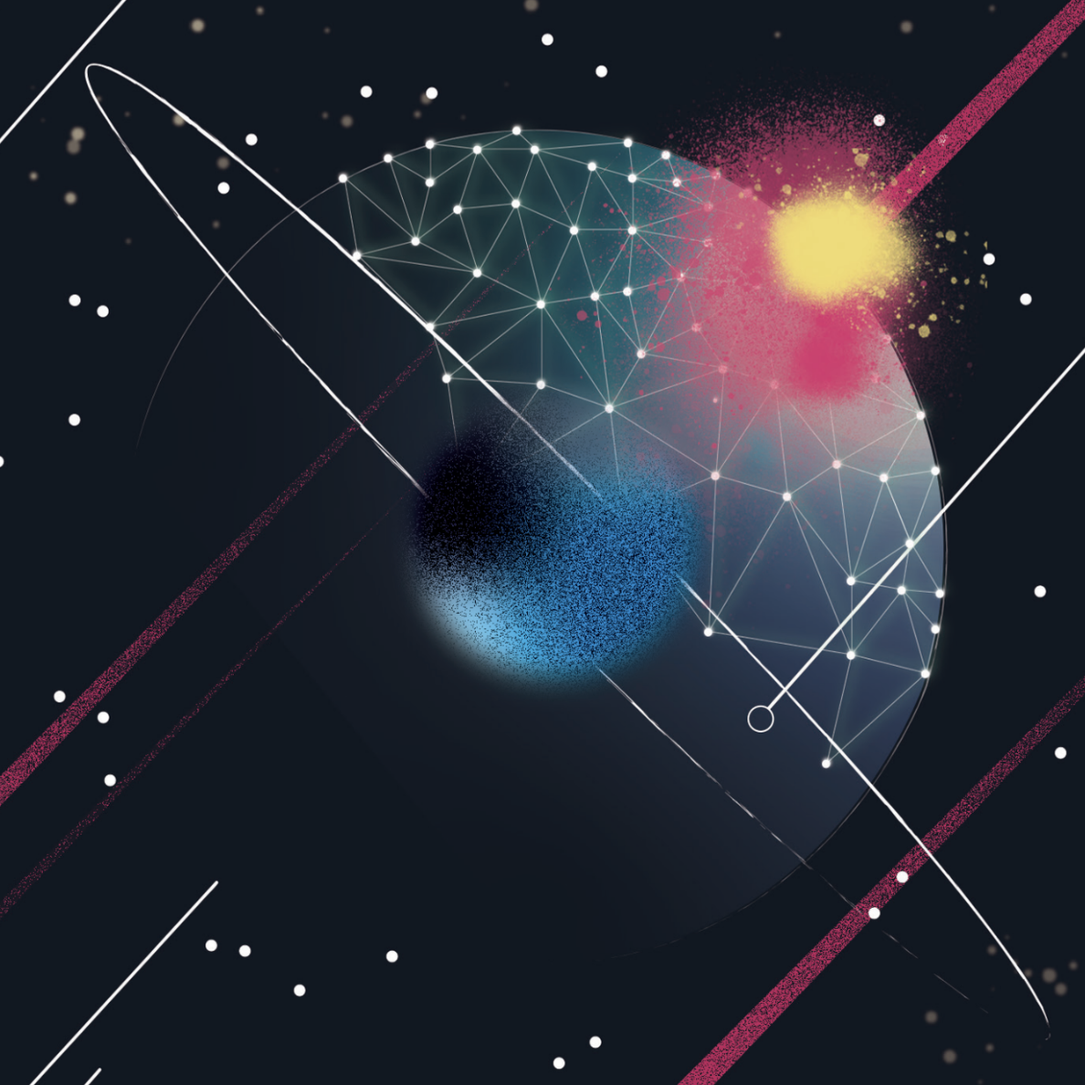
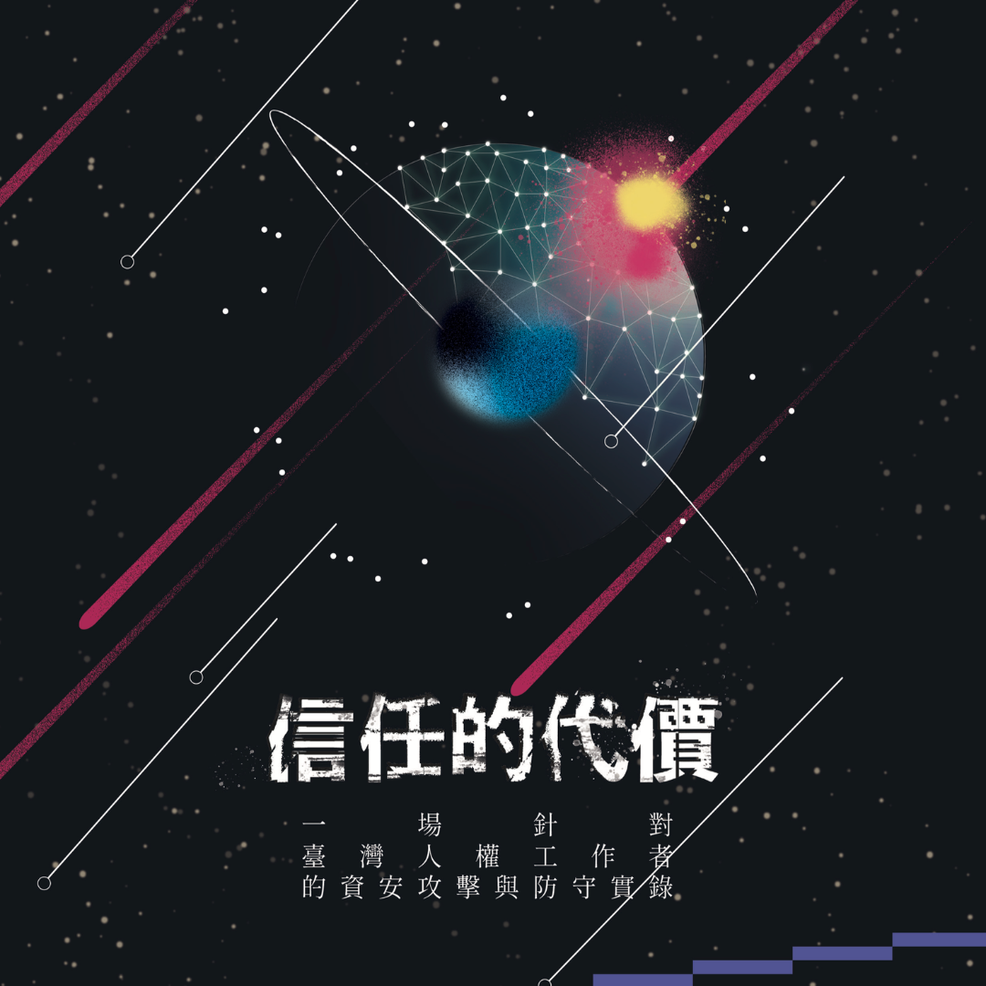
defendhrd: follow-up for PR #129 (SMP copy, links, layout, responsive)
Refresh project metadata and sidebar links for the Security Makeover
Program framing, fix child-project URL parsing under /p/…/ trailing
slashes, and tune project-page CSS for defendhrd download covers plus
lighter body copy weight. Update zh/en defendhrd pages with revised
narrative, download cards (including mapping + EN covers), and scoped
mobile layout to match the PR #129 research outputs section.

diff --git a/en/p/defendhrd/index.html b/en/p/defendhrd/index.html
@@ -1,8 +1,8 @@
 ---
 layout: p
 
-og_title: Defending and Documenting Digital Threats for HRDs in Taiwan
-og_description: Human rights defenders (HRDs) based in Taiwan have become the targets of digital attacks from malicious actors. This project aims to identify and document the scope and the sources of the digital threats, in order to develop a capacity-building toolkits  to assist HRDs effectively mitigate the risks and support their work.
+og_title: Digital Security Support for CSOs and HRDs in Taiwan
+og_description: The Open Culture Foundation’s Security Makeover Program for CSOs and HRDs accompanied six Taiwan-based organizations for one year to strengthen digital security practices and develop practical policies or guidelines. The program produced three public reports and one learning resource, and helped stop a cyberattack targeting civil society before it caused harm.
 og_image: /p/defendhrd/defendhrd logo_en.png
 
 header_image_opacity: 0.75
@@ -24,70 +24,23 @@ progress:
 cpid: 
 show_child_projects: yes
 ---
-<h2 class="ui dividing header">Project Background</h2>
-<p>The flourishing civil society and open environment in Taiwan have established it as a central hub where Human Rights Defenders (HRDs) from around the world convene. However, the potential risks that come along with the HRDs’ advocacy work are rarely discussed and remain undocumented. In recent years, activists in Taiwan have faced increasing targeted attacks by malicious actors, especially the cross-border influences of authoritarian regimes. Our network and existing projects providing digital security services to local HRDs have revealed suspicious signs on the devices of human rights activists. Additionally, some confirmed digital attacks have resulted in damages, including data loss or breaches of accounts.
-</p>
-<p>Despite the severity of the situation, there are only limited resources available to enhance organizational digital security infrastructure. Human rights organizations often operate with minimal manpower and rely heavily on donations or public funding for their operations. The lack of personnel with digital security expertise and the financial constraints hindering the investment in secure hardware leave HRDs vulnerable to potential threats and jeopardizes their work. In Taiwan, there are voluntary groups committed to providing digital security training to human rights civil society organizations. They offer training sessions to equip the HRDs with the basic knowledge and strategies for safeguarding against digital attacks. However, our experience shows that while one-time training programs provide fundamental knowledge of digital attacks, there’s a need for a long-term and customized solution, as each organization operates on a different scale and encounters different challenges.
-</p>
-<p>There are two primary goals of this project:</p>
-<ol>
-	<li><b>Digital Security Mapping for HRDs in Taiwan</b>: Surveys and depth interviews will be conducted to investigate the types and  origins of the digital attacks, as well as the damages experienced by HRDs. This research aims to understand the digital infrastructures and address the digital security needs of HRDs.</li>
-	<li><b>Digital Security Toolkit for HRDs</b>: Informed by the research findings, we will craft a comprehensive digital security toolkit tailored to meet the specific requirements of HRDs. The toolkit will be made publicly available for widespread use.</li>
-</ol>
+<h2 class="ui dividing header">About the Project</h2>
+<p>The Open Culture Foundation (OCF) launched the <strong>Security Makeover Program for CSOs and HRDs</strong> to provide long-term digital security support for Taiwan-based civil society organizations and human rights defenders. Over one year, OCF worked with six high-risk organizations to review their tools, accounts, data, and workflows, and to develop practical security policies or guidelines that teams could sustain beyond the project period.</p>
+<p>The program responds to increasingly complex digital threats against civil society. For CSOs and HRDs, digital security is essential to protecting sensitive information, maintaining trust with partners and communities, and keeping their work running safely. Yet many groups face limited staff capacity, time, and technical resources, making it difficult to turn security awareness into daily practice.</p>
+<p>Through this program, OCF supported six organizations in developing security policies or guidelines at different levels of maturity. The project produced three public reports and one learning resource, documenting key findings, the accompaniment model, and practical lessons for other civil society groups.</p>
+<p>OCF also helped intercept a cyberattack targeting civil society, in which attackers impersonated a participating human rights organization to send a convincing phishing email to its partners. The case was referred to Civil Society Cyber Shield (CSCS) for analysis, and the attack was stopped before causing infection. The experience showed that effective protection requires long-term trust, timely reporting, and collaboration between civil society groups and technical communities.</p>
 
-<h2 class="ui dividing header">Digital Security Mapping for HRDs in Taiwan</h2>
-<p>This project is developed with the aim of bridging the gap between the existing services and actual needs of the HRDs in Taiwan. We employed a mixed-methods approach in order to identify the scope of existing digital security risks and explore a holistic approach to mitigate these risks. The project collected questionnaires from 35 HRDs and conducted in-depth interviews with 3 high-risk HRDs who had previous experience with targeted digital attacks. Here are some key findings: </p>
+<h2 class="ui dividing header">Reports &amp; Resources</h2>
+<p>The project produced three public reports and one learning resource. Together, these outputs document digital threat trends, the <strong>Security Makeover Program</strong> experience, practical learning materials, and a real-world cyberattack case, offering useful insights for NGOs and digital security practitioners working to strengthen civil society’s digital resilience.</p>
 
-<p>Who are HRDs in Taiwan?</p>
-<ul>
-	<li>Most formal organizations have staff sizes under 10 people and consist of a mix of full-time, part-time, interns, or volunteers.</li>
-	<li>Interviewed HRDs used multiple tools with similar functions situationally for their operations, which we refer to as a ‘patchwork’ pattern.</li>
-</ul>
+<h3 class="ui header">Digital Security Mapping for HRDs in Taiwan: Preliminary Results (2024)</h3>
+<p>Based on 35 survey responses and 3 in-depth interviews, this report maps <strong>key digital threats</strong> facing Taiwan-based CSOs and HRDs, including phishing, online harassment, account compromise, and infrastructure attacks. It highlights why resource-limited CSOs need long-term digital security support.</p>
 
-<p>What types of digital attacks occurred?</p>
-<ul>
-	<li>Foreign authoritarian regimes are considered the primary potential attackers.</li>
-	<li>Social media harassment and phishing are the most common types of attacks.</li>
-	<li>HRDs expressed greater concern about attacks targeting internal digital infrastructure and data.</li>
-</ul>
+<h3 class="ui header">Safeguarding Advocacy: A <strong>Security Makeover Program</strong> (SMP) for CSOs and HRDs (2026)</h3>
+<p>This report documents OCF’s one-year <strong>Security Makeover Program</strong> with 6 high-risk CSOs and HRD groups. It shares how long-term accompaniment helped organizations review daily digital practices and develop practical security policies or guidelines.</p>
 
-<p>Why did digital threats concern the HRDs?</p>
-<ul>
-	<li>Most HRDs have little confidence in their preparedness for digital attacks.</li>
-	<li>Patchworked digital infrastructure creates additional challenges for effective monitoring and maintenance.</li>
-</ul>
-
-<p>What is in need?</p>
-<ul>
-	<li>There is high willingness to participate in externally supported capacity building programs; internal constraints including lack of  human resources, skills, and funds are still common obstacles.</li>
-	<li>HRDs are seeking sustainable and long-term solutions that will equip them with knowledge, problem-solving skills, and a proactive learning mentality.</li>
-</ul>
-
-<p>If you want to learn more about the scope of digital attacks and the HRDs’ experience, please refer to the full report.</p>
-  <div class="item">
-    <div class="content">
-      <i class="hand point right outline icon"></i>
-      <a href="https://drive.google.com/file/d/1VV12Rp7IKkWexNTKQRuWIA4Zfd8ztN9X/view?usp=sharing">Full Report (English)</a>
-    </div>
-  </div>
-  <div>
-    <div class="item">
-    <div class="content">
-      <i class="hand point right outline icon"></i>
-      <a href="https://drive.google.com/file/d/1SbsZ_4WekPX7sS1jfVKhaFZGxCjtUgPX/view?usp=drive_link">Summary (English)</a>
-    </div>
-    </div>
-  </div>
-
-<h2 class="ui dividing header">Digital Security Toolkit for HRDs</h2>
-<p>Based on our findings in the Digital Security Mapping for HRDs in Taiwan, we will develop a digital security toolkit for HRDs in Taiwan. We anticipate that this digital security toolkit will bring sustainable impacts and significantly enhance the digital resilience of HRDs.</p>
-
-<h2 class="ui dividing header">Research Outputs &amp; Resources</h2>
-<p>Building on the findings of this project, we have produced two follow-up outputs and shared them back with the human rights community.</p>
-
-<p><b><i>The Cost of Trust: Lessons from a Cyberattack on Taiwan-Based Human Rights Defenders</i></b> documents a real-world targeted cyberattack against HRDs in Taiwan, fully reconstructing the attacker's intrusion methods, how the organization first detected anomalies, the timeline of incident response and recovery in collaboration with the security team, and the lessons learned from post-incident review. While the earlier <i>Digital Security Mapping for HRDs in Taiwan</i> confirmed that HRDs broadly face potential threats from foreign authoritarian regimes, this case study makes those abstract threat patterns concrete — showing how a real organization discovered the attack, coordinated its response, and what costs it paid in terms of trust and resources. We hope this account will help more HRDs and supporting institutions see the full picture of an incident and develop preventive workflows and mental preparation accordingly.</p>
-
-<p><b><i>Safeguarding Advocacy: A Security Makeover Program (SMP) for CSOs and HRDs</i></b> is the final report of the Security Makeover Program (SMP) that grew out of this project. SMP was designed to move beyond the limitations of one-time training — many civil society groups, after attending workshops, still struggle to put new knowledge into practice due to differences in organizational size, lack of technical expertise, and limited budgets. SMP takes a long-term accompaniment approach: security practitioners work directly with each organization to take stock of its digital infrastructure, clarify its assets and risks, design a tailored improvement plan, and provide ongoing consultation and adjustments throughout implementation. The report presents SMP's service design and operating model, lived experiences from participating organizations, common challenges observed during the program, and recommendations for scaling security accompaniment work in the future — intended as a reference for organizations and funders that share our concern for the cybersecurity of human rights defenders.</p>
+<h3 class="ui header">The Cost of Trust: Lessons from a Cyberattack on Taiwan-Based Human Rights Defenders (2026)</h3>
+<p>This report examines <strong>the MAK case</strong>, a real cyberattack in which attackers impersonated a Taiwanese human rights organization to target its partners. It shows how civil society trust networks can be exploited—and how timely reporting, OCF coordination, and CSCS technical support helped stop the attack before infection.</p>
 
 <style>
   .defendhrd-results .download-section {
@@ -115,7 +68,13 @@ show_child_projects: yes
   }
   .defendhrd-results a.btn-download:hover { color: #ffffff !important; opacity: 0.9; }
   @media (max-width: 768px) {
-    .defendhrd-results .download-card { width: 100%; max-width: 300px; margin: 0 auto; }
+    .defendhrd-results .download-card {
+      width: 100%;
+      max-width: 300px;
+      margin: 0 auto;
+      box-sizing: border-box;
+    }
+    .defendhrd-results .download-section { gap: 2rem; }
   }
 </style>
 
@@ -123,19 +82,27 @@ show_child_projects: yes
   <div class="download-section">
 
     <div class="download-card">
-      <img src="/p/defendhrd/cost-of-trust-cover.png" alt="The Cost of Trust cover" class="album-art">
-      <h3>The Cost of Trust</h3>
-      <p class="card-desc">A case study documenting a cyberattack against Taiwan-based human rights defenders — attack patterns, defensive response, and lessons learned.</p>
-      <a href="https://drive.google.com/file/d/1VwZwVXpOjTBZibVCTbIF1wUdPhQU_wJz/view?usp=drive_link" class="btn-download">中文版</a>
-      <a href="https://drive.google.com/file/d/1Q3Z2nLJ4dkQpmSqXQcctl4IW3cUhdDkF/view?usp=drive_link" class="btn-download">English</a>
+      <img src="/p/defendhrd/Digital%20Security%20Mapping%20for%20HRDs%20in%20Taiwan_en.png" alt="Digital Security Mapping for HRDs in Taiwan" class="album-art">
+      <h3>Digital Security Mapping for HRDs in Taiwan</h3>
+      <p class="card-desc">2024 preliminary research: full report in English, plus a Traditional Chinese summary synthesizing findings from 35 questionnaires and three in-depth interviews.</p>
+      <a href="https://drive.google.com/file/d/1sxAFmSiJL6DzdO3ezq_hJSBROuGXNLAA/view" class="btn-download">Summary (zh-TW)</a>
+      <a href="https://drive.google.com/file/d/1VV12Rp7IKkWexNTKQRuWIA4Zfd8ztN9X/view?usp=sharing" class="btn-download">Full report (English)</a>
     </div>
 
     <div class="download-card">
-      <img src="/p/defendhrd/safeguarding-advocacy-cover.png" alt="Safeguarding Advocacy cover" class="album-art">
-      <h3>Safeguarding Advocacy (Final Report)</h3>
-      <p class="card-desc">The project's final report, summarizing the Security Makeover Program (SMP)'s service model, implementation experience, and recommendations for CSOs and HRDs.</p>
-      <a href="https://drive.google.com/file/d/1wgYdObezFzlI6OJLozzqQF5Vt11B7gCd/view?usp=drive_link" class="btn-download">中文版</a>
+      <img src="/p/defendhrd/safeguarding-advocacy-cover-en.png" alt="Safeguarding Advocacy cover" class="album-art">
+      <h3>Safeguarding Advocacy</h3>
+      <p class="card-desc">The project's final report, summarizing the <strong>Security Makeover Program</strong> (SMP)'s service model, implementation experience, and recommendations for CSOs and HRDs.</p>
+      <a href="https://drive.google.com/file/d/1wgYdObezFzlI6OJLozzqQF5Vt11B7gCd/view?usp=drive_link" class="btn-download">Traditional Chinese (zh-TW)</a>
       <a href="https://drive.google.com/file/d/1ln6__KiGZgf9QSkYhwKo8gm4L9d9tExo/view?usp=drive_link" class="btn-download">English</a>
+    </div>
+
+    <div class="download-card">
+      <img src="/p/defendhrd/cost-of-trust-cover-en.png" alt="The Cost of Trust cover" class="album-art">
+      <h3>The Cost of Trust</h3>
+      <p class="card-desc">A case study documenting a cyberattack against Taiwan-based human rights defenders — attack patterns, defensive response, and lessons learned.</p>
+      <a href="https://drive.google.com/file/d/1VwZwVXpOjTBZibVCTbIF1wUdPhQU_wJz/view?usp=drive_link" class="btn-download">Traditional Chinese (zh-TW)</a>
+      <a href="https://drive.google.com/file/d/1Q3Z2nLJ4dkQpmSqXQcctl4IW3cUhdDkF/view?usp=drive_link" class="btn-download">English</a>
     </div>
 
     <a href="https://ssd.ocf.tw/" class="download-card">

diff --git a/p/defendhrd/index.html b/p/defendhrd/index.html
@@ -1,8 +1,8 @@
 ---
 layout: p
 
-og_title: 在台人權工作者的數位安全樣態與培力
-og_description: 在台人權與民主倡議工作者（Human Rights Defenders，HRDs）因其倡議工作，面對著來自境內或境外的惡意數位威脅攻擊。本項專案旨在記錄在台人權工作者所遭遇到的數位威脅的來源及規模，並且發展一個可分享的整體性資安培力工具及訓練計劃，讓人權工作者得以透過研究成果和工具來提升他們的數位安全。
+og_title: 公民團體與人權工作者資安陪伴計畫
+og_description: 透過一年期長期陪伴，協助 6 個高風險組織檢視數位工具、帳號、資料與工作流程，建立可落實的資安政策或守則。計畫產出 3 份成果報告與 1 份網站教材，並在陪伴過程中成功攔截一起針對公民社會的資安攻擊事件。
 og_image: /p/defendhrd/defendhrd logo_tw.png
 
 header_image_opacity: 0.75
@@ -24,65 +24,18 @@ progress:
 cpid: 
 show_child_projects: yes
 ---
-<h2 class="ui dividing header">人權工作者面臨惡意數位威脅，僅有有限的應對資源</h2>
-<p>活躍的公民社會及開放的環境，促使台灣成為全球人權及民主倡議工作者（Human Rights Defenders，HRDs）的聚集中心。然而，人權工作者在倡議工作中所面臨的潛在風險卻鮮少獲得討論，也缺少詳實的研究紀錄。近年來，台灣的倡議工作者面臨越來越多惡意威脅及針對性數位攻擊，特別是來自跨境威權政府的影響。根據我們在台灣的公民團體網絡，以及現有的數位安全防禦計畫成果，在台人權工作者所使用的裝置中經常可見許多可疑的攻擊跡象。除此之外，也有一些經過確認的數位攻擊，已經導致人權組織蒙受實際的損害，包含資料及帳號受損。</p>
-<p>儘管已有數位攻擊造成實際損害，但是人權工作者卻只有相當有限的資源，可用於加強組織層面的數位安全基礎設施。人權及民主倡議團體經常面臨人力資源不足，也高度仰賴捐款或是政府補助，作為維持組織營運的主要財務來源。缺乏具備數位安全專業知識的人力資源、有限的數位安全硬體預算，都使得人權工作者在面對數位威脅時變得更加脆弱，使得倡議工作的數位攻擊風險加劇。雖然目前在台灣，已有志願團體致力於提供人權工作者數位安全基礎知識，以及數位攻擊防範策略培訓；但是我們的經驗顯示，雖然一次性的培訓計畫有助於人權工作者學習基礎知識，但是由於每個組織的規模各異，他們所面臨的數位威脅挑戰也有所不同，人權及民主倡議工作者迫切需要一個長期性、客製化的解決方案。</p>
-<p>本項專案有兩大目標成果：</p>
-<ol>
-	<li><b>「台灣人權民主倡議團體數位威脅概況」報告</b>：我們將透過問卷及深度訪談，探討在台人權工作者的數位安全樣態，包含曾經遭遇的數位攻擊類型、來源以及造成的損害，確認在台人權工作者的數位基礎設施狀態及資安防護需求。</li>
-	<li><b>數位安全培力工具包</b>：在上述研究成果的基礎上，發展一套合乎在台人權工作者需求的數位安全培力工具包，並公開分享給大眾使用。</li>
-</ol>
+<h2 class="ui dividing header">關於本計畫</h2>
+<p>開放文化基金會（OCF）推動「公民團體與人權工作者<strong>資安陪伴計畫</strong>」，以長期陪伴取代一次性的資安訓練，協助公民團體與人權工作者理解自身面對的數位風險，檢視日常使用的工具、帳號、資料與工作流程，並逐步建立可落實、可延續的安全做法。本計畫為期一年，陪伴 6 個在臺灣的高風險公民團體與人權工作者組織，從日常工作情境出發，協助組織把資安從少數人的臨時處理，轉化為整個團隊都能理解與執行的工作基礎。</p>
+<p>這項計畫的推動，是因為公民團體與人權工作者正面對越來越複雜的數位威脅。對許多倡議組織而言，數位安全不只是技術問題，也關係到敏感資料能否被保護、合作夥伴能否安心協作、倡議工作能否穩定持續。許多組織雖然知道資安重要，卻受限於人力、時間與技術資源，只能用有限條件維持日常運作。當釣魚信件、帳號風險、網站攻擊或資料外洩發生時，這些威脅不只影響組織本身，也可能波及服務對象、支持者與整個公民社會的信任網絡。</p>
+<p>透過本計畫，OCF 協助 6 個參與組織完成不同程度的資安政策或資安守則，並產出 3 份成果報告及 1 份網站教材，將研究發現、陪伴方法與實務經驗公開整理，供更多公民團體參考。在陪伴過程中，OCF 也協助攔截一起針對公民社會的資安攻擊事件：攻擊者冒用一個參與計畫的人權組織名義，寄出高度擬真的釣魚郵件，企圖利用該組織長期累積的信任攻擊其合作夥伴。事件發生後，該組織通報 OCF，OCF 隨即串連資安志願社群 Civil Society Cyber Shield（CSCS）進行分析，最終在造成實質感染前成功攔截攻擊。這項經驗也讓 OCF 更確信，守護公民社會的數位安全，需要長期信任、即時通報與跨社群合作，才能讓重要的倡議聲音在威脅中持續被聽見。</p>
 
-<h2 class="ui dividing header">台灣人權與民主倡議團體數位威脅概況</h2>
-<p>為了弭平現有數位安全服務與實際需求之間的落差，本計畫採取混合研究方法，嘗試勾勒出在台人權工作者的數位安全樣態，並尋求一套能夠降低數位威脅風險的整體性方案。我們從 35 個人權組織、社群和個人行動者蒐集問卷，並向 3 名曾經遭受「具針對性數位攻擊」的高風險人權工作者進行深入訪談。以下為我們的主要研究發現：</p>
+<h2 class="ui dividing header">研究成果與資源</h2>
 
-<p>在台人權工作者有哪些人？</p>
 <ul>
-	<li>本研究所調查的人權工作者以 10 人以下的正式註冊組織為主要型態，並由全職、兼職、實習生或志工等多種雇用型態組成。</li>
-	<li>受訪組織的數位基礎設施建置與使用缺乏完整規劃，並且視情況結合多種功能類似的工具以維持運作，我們將之稱為「拼裝」模式。</li>
+  <li>《台灣人權民主倡議團體數位威脅概況》（2024）<br>本報告透過 35 份問卷與 3 份深度訪談，了解在臺灣的人權與民主倡議團體面對哪些數位威脅。研究發現，許多組織規模小、人力有限，卻經常面對社群媒體騷擾、釣魚攻擊、帳號或資料受損等風險。報告也指出，許多團體的數位工具與工作流程多半是因應需求臨時拼湊而成，缺乏完整規劃，因此更難面對持續升高的攻擊風險。</li>
+  <li>《守護倡議之聲：公民團體與人權工作者<strong>資安陪伴計畫</strong>成果報告》（2026）<br>本報告整理 OCF 一年期「<strong>資安陪伴計畫</strong>」的執行過程與成果。計畫陪伴 6 個高風險公民團體與人權工作者組織，協助他們檢視日常使用的工具、帳號、資料與工作流程，並建立可執行的資安政策或守則。報告也整理陪伴過程中的經驗，包括如何建立信任、如何讓資安成為組織日常，以及如何在有限資源下逐步提升防護能力。</li>
+  <li>《信任的代價：一場針對臺灣人權工作者的資安攻擊與防守實錄》（2026）<br>本報告記錄一場<strong>針對臺灣人權工作者與其合作網絡的資安攻擊</strong>。攻擊者冒用人權組織 MAK 的名義，寄出高度擬真的釣魚郵件，企圖利用該組織累積的信任，進一步攻擊合作夥伴。事件最後在感染前被成功攔截，關鍵在於外部夥伴察覺異常、MAK 即時通報 OCF，並由 CSCS 資安社群協助分析。報告提醒，公民社會需要更穩定的通報與防禦機制。</li>
 </ul>
-<p>哪些數位攻擊發生了？</p>
-<ul>
-	<li>大部分人權工作者認為外國威權政府是主要的潛在攻擊者。</li>
-	<li>社交媒體騷擾和釣魚是人權工作者最常遭遇的攻擊類型。</li>
-	<li>然而，比起上述攻擊，受訪者對於針對內部數位基礎設施和資料侵害的攻擊表達更多憂慮。</li>
-</ul>
-<p>為何人權工作者會對數位威脅感到擔憂？</p>
-<ul>
-	<li>大部分人權工作者認為自己面對數位攻擊的準備不夠充分。</li>
-	<li>「拼裝」數位基礎設施，造成管理及維護上的挑戰。</li>
-</ul>
-<p>人權工作者最需要什麼？</p>
-<ul>
-	<li>大部分人權工作者對於外部支持的培力計畫表達高度參與意願，但是組織內部限制包含人力資源不足、技能不足和資金不足，仍是難以解決的現況。</li>
-	<li>他們期望看到更加永續、長期的解決方案，讓他們具備知識、解決問題的能力和積極的學習心態。</li>
-</ul>
-
-<p>如果想瞭解更多在台人權工作者的數位攻擊經驗，請參閱「台灣人權與民主倡議團體數位威脅概況」。</p>
-  <div class="item">
-    <div class="content">
-      <i class="hand point right outline icon"></i>
-      <a href="https://drive.google.com/file/d/1VV12Rp7IKkWexNTKQRuWIA4Zfd8ztN9X/view?usp=sharing">報告全文 (English)</a>
-    </div>
-  </div>
-  <div>
-    <div class="item">
-    <div class="content">
-      <i class="hand point right outline icon"></i>
-      <a href="https://drive.google.com/file/d/1sxAFmSiJL6DzdO3ezq_hJSBROuGXNLAA/view?usp=sharing">報告摘要 (中文)</a>
-    </div>
-    </div>
-  </div>
-
-<h2 class="ui dividing header">給人權工作者的數位安全培力工具包</h2>
-<p>根據台灣人權與民主倡議團體數位威脅概況報告成果，我們將為人權工作者設計一個數位安全培力工具包，期望帶來具有永續性的影響，並強化人權工作者的數位韌性。</p>
-
-<h2 class="ui dividing header">研究成果與相關資源</h2>
-<p>在本計畫的研究發現之上，我們進一步累積了兩份延伸成果，並將成果回饋給人權工作者社群。</p>
-
-<p><b>《信任的代價：一場針對臺灣人權工作者的資安攻擊與防守實錄》</b>記錄了臺灣人權工作者實際遭遇的針對性資安攻擊事件，完整還原攻擊者的入侵手法、組織端發現異常的過程、與資安團隊協作應變與復原的時間軸，以及事後檢討所獲得的經驗教訓。在「台灣人權與民主倡議團體數位威脅概況」研究中，我們確認了在台人權工作者普遍面臨來自境外威權政府的潛在威脅；本份個案實錄則進一步將抽象的威脅樣態具體化，呈現一個真實組織如何發現攻擊、如何協調應對、又付出了哪些信任與資源上的代價。我們希望透過這份實錄，讓更多人權工作者及支持單位看見攻擊事件的全貌，並從中建立預防性的工作流程與心理準備。</p>
-
-<p><b>《守護倡議之聲：公民團體與人權工作者資安陪伴計畫成果報告》</b>則是本計畫所衍生的「資安陪伴計畫」（Security Makeover Program，SMP）的結案報告。SMP 嘗試突破傳統「一次性培訓」的限制——許多公民團體在參加完工作坊後，仍然面臨組織規模不同、技術專業不足、預算有限等實際落地的挑戰。SMP 改以陪伴式的長期介入，由具備資安專業的夥伴直接進入組織，協助盤點數位基礎設施、釐清資產與風險、制定客製化的改造計畫，並在實作過程中持續提供諮詢與調整建議。本份報告完整呈現 SMP 的服務設計與運作模式、實際參與組織的個案經驗、計畫推動中所觀察到的常見挑戰，以及對未來規模化推動資安陪伴工作的建議，期待能作為其他關注人權工作者資安議題的組織與資助者的參考。</p>
 
 <style>
   .defendhrd-results .download-section {
@@ -110,7 +63,13 @@ show_child_projects: yes
   }
   .defendhrd-results a.btn-download:hover { color: #ffffff !important; opacity: 0.9; }
   @media (max-width: 768px) {
-    .defendhrd-results .download-card { width: 100%; max-width: 300px; margin: 0 auto; }
+    .defendhrd-results .download-card {
+      width: 100%;
+      max-width: 300px;
+      margin: 0 auto;
+      box-sizing: border-box;
+    }
+    .defendhrd-results .download-section { gap: 2rem; }
   }
 </style>
 
@@ -118,19 +77,27 @@ show_child_projects: yes
   <div class="download-section">
 
     <div class="download-card">
-      <img src="/p/defendhrd/cost-of-trust-cover.png" alt="信任的代價封面" class="album-art">
-      <h3>信任的代價</h3>
-      <p class="card-desc">一份針對臺灣人權工作者實際遭遇資安攻擊事件的個案研究實錄，記錄攻擊樣態、防守過程與經驗教訓。</p>
-      <a href="https://drive.google.com/file/d/1VwZwVXpOjTBZibVCTbIF1wUdPhQU_wJz/view?usp=drive_link" class="btn-download">中文版</a>
-      <a href="https://drive.google.com/file/d/1Q3Z2nLJ4dkQpmSqXQcctl4IW3cUhdDkF/view?usp=drive_link" class="btn-download">English</a>
+      <img src="/p/defendhrd/Digital%20Security%20Mapping%20for%20HRDs%20in%20Taiwan.png" alt="台灣人權與民主倡議團體數位威脅概況" class="album-art">
+      <h3>台灣人權與民主倡議團體數位威脅概況</h3>
+      <p class="card-desc">2024 年研究報告摘要（中文版），整理 35 份問卷與 3 場深度訪談中，在臺人權與民主倡議團體面臨的數位威脅樣態與資安需求。</p>
+      <a href="https://drive.google.com/file/d/1sxAFmSiJL6DzdO3ezq_hJSBROuGXNLAA/view" class="btn-download">中文版</a>
+      <a href="https://drive.google.com/file/d/1VV12Rp7IKkWexNTKQRuWIA4Zfd8ztN9X/view?usp=sharing" class="btn-download">英文版</a>
     </div>
 
     <div class="download-card">
       <img src="/p/defendhrd/safeguarding-advocacy-cover.png" alt="守護倡議之聲封面" class="album-art">
-      <h3>守護倡議之聲（結案報告）</h3>
-      <p class="card-desc">本專案結案報告，整理「資安陪伴計畫」(SMP) 對公民團體與人權工作者的服務模式、實作經驗與建議。</p>
+      <h3>守護倡議之聲</h3>
+      <p class="card-desc">本專案結案報告，整理「<strong>資安陪伴計畫</strong>」(SMP) 對公民團體與人權工作者的服務模式、實作經驗與建議。</p>
       <a href="https://drive.google.com/file/d/1wgYdObezFzlI6OJLozzqQF5Vt11B7gCd/view?usp=drive_link" class="btn-download">中文版</a>
-      <a href="https://drive.google.com/file/d/1ln6__KiGZgf9QSkYhwKo8gm4L9d9tExo/view?usp=drive_link" class="btn-download">English</a>
+      <a href="https://drive.google.com/file/d/1ln6__KiGZgf9QSkYhwKo8gm4L9d9tExo/view?usp=drive_link" class="btn-download">英文版</a>
+    </div>
+
+    <div class="download-card">
+      <img src="/p/defendhrd/cost-of-trust-cover.png" alt="信任的代價封面" class="album-art">
+      <h3>信任的代價</h3>
+      <p class="card-desc">一份針對臺灣人權工作者實際遭遇資安攻擊事件的個案研究實錄，記錄攻擊樣態、防守過程與經驗教訓。</p>
+      <a href="https://drive.google.com/file/d/1VwZwVXpOjTBZibVCTbIF1wUdPhQU_wJz/view?usp=drive_link" class="btn-download">中文版</a>
+      <a href="https://drive.google.com/file/d/1Q3Z2nLJ4dkQpmSqXQcctl4IW3cUhdDkF/view?usp=drive_link" class="btn-download">英文版</a>
     </div>
 
     <a href="https://ssd.ocf.tw/" class="download-card">

diff --git a/_includes/_var/p.html b/_includes/_var/p.html
@@ -6,20 +6,19 @@
 
 {% if page.url contains '/en/p/' or page.url contains '/p/' %}
   {% assign paths = page.url | replace: '/en/p/', '' | replace: '/p/', '' | split: '/' %}
-{% endif %}
-
-<!-- fetch data -->
-
-{% if paths[1] and page.name != paths[1] %}
-  {% assign parent_project_id = paths[0] %}
-  {% assign parent_project = site.data.p[parent_project_id].project %}
-  {% assign project_id = paths[1] %}
-  {% assign project = site.data.p[parent_project_id][project_id].project %}
-{% else %}
-  {% assign parent_project_id = undefined %}
-  {% assign parent_project = undefined %}
-  {% assign project_id = paths[0] %}
-  {% assign project = site.data.p[project_id].project %}
+  <!-- Require a real child slug: trailing slash yields paths[1] == "". Ignore .../index.html as slug. -->
+  {% assign path_child = paths[1] | default: '' | strip %}
+  {% if path_child != '' and path_child != 'index.html' and page.name != path_child %}
+    {% assign parent_project_id = paths[0] %}
+    {% assign parent_project = site.data.p[parent_project_id].project %}
+    {% assign project_id = path_child %}
+    {% assign project = site.data.p[parent_project_id][project_id].project %}
+  {% else %}
+    {% assign parent_project_id = undefined %}
+    {% assign parent_project = undefined %}
+    {% assign project_id = paths[0] %}
+    {% assign project = site.data.p[project_id].project %}
+  {% endif %}
 {% endif %}
 
 <!-- get vars -->

diff --git a/assets/styles/p.css b/assets/styles/p.css
@@ -105,6 +105,11 @@
     img {
       max-width: 35%;
     }
+    /* defendhrd download covers: full width on small screens (override rule above) */
+    .defendhrd-results img.album-art {
+      max-width: 100%;
+      width: 100%;
+    }
   }
 }
 
@@ -116,6 +121,14 @@
   #project .flex-swap {
     order: 0;
   }
+}
+
+/* Global html/body use font-weight:600; narrative copy in the project column reads better at 400. */
+#project .project__body > div p,
+#project .project__body > div ul,
+#project .project__body > div ol,
+#project .project__body > div li {
+  font-weight: 400;
 }
 
 .ui.dividing.header {
